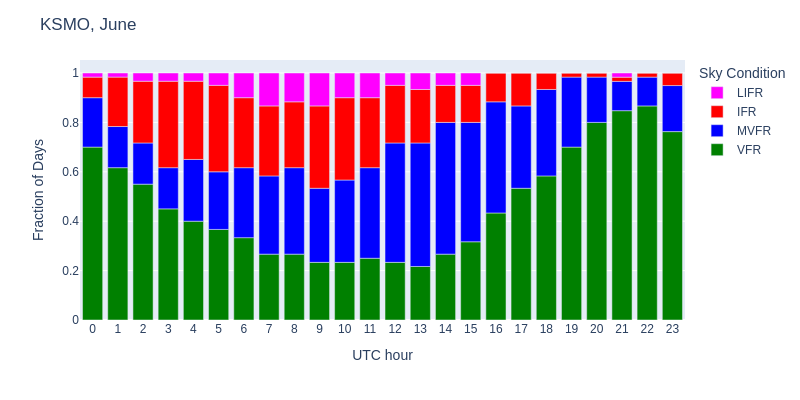
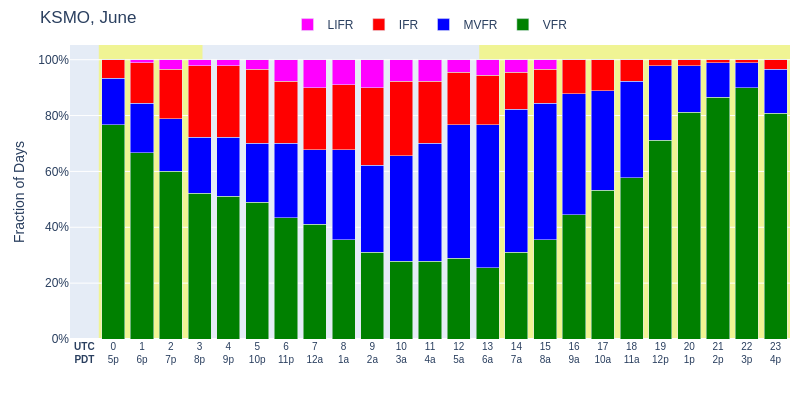
Update About page example charts and text for recent UI improvements
Regenerated example charts with timezone labels and daylight shading.
Updated surrounding text to match current data and reference new chart
features. Fixed CLI metadata lookup to handle ICAO K-prefix codes.

diff --git a/cli/metar_analyzer.py b/cli/metar_analyzer.py
@@ -67,13 +67,23 @@ def main():
         print(METARVisualizer.format_table(hourly))
 
     if args.chart:
-        # Look up timezone and location metadata for the airport
+        # Look up timezone and location metadata for the airport.
+        # The metadata parquet is keyed by IEM query code (e.g., "SMO"),
+        # but the user may provide the ICAO code (e.g., "KSMO"). Try both.
         metadata = pd.read_parquet(METADATA_PATH)
         airport_upper = args.airport.upper()
+        meta_key = None
+        if airport_upper in metadata.index:
+            meta_key = airport_upper
+        elif len(airport_upper) == 4 and airport_upper.startswith('K'):
+            stripped = airport_upper[1:]
+            if stripped in metadata.index:
+                meta_key = stripped
+
         utc_offsets = []
         daylight_utc = None
-        if airport_upper in metadata.index:
-            row = metadata.loc[airport_upper]
+        if meta_key is not None:
+            row = metadata.loc[meta_key]
             utc_offsets = get_utc_offsets_for_month(row.get('tz'), args.month)
             daylight_utc = get_daylight_utc_hours(
                 row.get('lat'), row.get('lon'), args.month)

diff --git a/website/frontend/root-pages/about.md b/website/frontend/root-pages/about.md
@@ -19,21 +19,21 @@ For example, the chart below shows the prediction for Santa Monica Airport (KSMO
 
 ![KSMO June weather prediction](/assets/images/KSMO-06.png)
 
-**How to read the chart:** Each bar represents one hour of the day (UTC). The height of each colored section shows the percentage of days in that month that had that flight condition during that hour. <span class="vfr">VFR</span> is stacked on the bottom, making it easy to read—just look at where the green ends. For example, at hour 0 UTC (5 PM local), the <span class="vfr">VFR</span> section extends from 0 to 0.70, meaning 70% of days in past Junes had VFR conditions at 5 PM. Above that, <span class="mvfr">MVFR</span> goes from 0.70 to 0.90 (20%), <span class="ifr">IFR</span> from 0.90 to 0.98 (8%), and <span class="lifr">LIFR</span> from 0.98 to 1.0 (2%). By hour 8 UTC (1 AM local), the <span class="vfr">VFR</span> bar is much shorter—from 0 to 0.27—indicating only a 27% chance of VFR, with a 73% chance of marine layer: 35% <span class="mvfr">MVFR</span>, 27% <span class="ifr">IFR</span>, and 12% <span class="lifr">LIFR</span>.
+**How to read the chart:** Each bar represents one hour of the day (UTC). The local time is shown below each bar, and the yellow background indicates daylight hours. The height of each colored section shows the percentage of days in that month that had that flight condition during that hour. <span class="vfr">VFR</span> is stacked on the bottom, making it easy to read—just look at where the green ends. For example, at hour 0 UTC (5 PM PDT), the <span class="vfr">VFR</span> section reaches 77%, meaning 77% of days in past Junes had VFR conditions at 5 PM. Above that, <span class="mvfr">MVFR</span> adds 17% and <span class="ifr">IFR</span> 7%. By hour 10 UTC (3 AM local), the <span class="vfr">VFR</span> bar drops to just 28%, with a 72% chance of marine layer: 38% <span class="mvfr">MVFR</span>, 27% <span class="ifr">IFR</span>, and 8% <span class="lifr">LIFR</span>.
 
-**KSMO in June** shows classic June Gloom. The best predicted conditions are from 20-23 UTC (1-4 PM local) with 76-87% <span class="vfr">VFR</span>. The worst marine layer hits from 7-15 UTC (midnight-8 AM local). At the worst hours (13-14 UTC / 6-7 AM local), <span class="vfr">VFR</span> is only 22-27%, with a 73-78% chance of marine layer: 50-53% <span class="mvfr">MVFR</span>, 15-22% <span class="ifr">IFR</span>, and 5-7% <span class="lifr">LIFR</span>. The marine layer begins burning off at 16-18 UTC (9-11 AM local) with <span class="vfr">VFR</span> improving from 43% to 58%.
+**KSMO in June** shows classic June Gloom. The best predicted conditions are from 20-22 UTC (1-3 PM local) with 81-90% <span class="vfr">VFR</span>. The worst marine layer hits from 8-15 UTC (1-8 AM local). At the worst hours (13-14 UTC / 6-7 AM local), <span class="vfr">VFR</span> is only 26-31%, with a 69-74% chance of marine layer: about 51% <span class="mvfr">MVFR</span>, 13-18% <span class="ifr">IFR</span>, and 4-6% <span class="lifr">LIFR</span>. The marine layer begins burning off at 16-18 UTC (9-11 AM local) with <span class="vfr">VFR</span> improving from 44% to 58%. As the yellow daylight band on the chart suggests, this improvement correlates with sunrise—solar heating burns off the coastal fog a few hours after dawn.
 
 Van Nuys Airport (KVNY) was often our planned alternate. Even though it's just 14 miles away,  its weather is consistently better than Santa Monica due to being further inland and protected from the marine layer by the Santa Monica Mountains. The predictor confirms this:
 
 ![KVNY June weather prediction](/assets/images/KVNY-06.png)
 
-**KVNY in June** shows substantially better conditions. The best chance at <span class="vfr">VFR</span> is from 19 UTC through 6 UTC (noon through 11 PM local) at 79-93%. The marine layer affects KVNY from 7-16 UTC (midnight-9 AM local), but is noticeably lighter than KSMO. At the worst hours (13-14 UTC / 6-7 AM local), <span class="vfr">VFR</span> is still about 40% likely—significantly better than KSMO's ~25% chance at <span class="vfr">VFR</span> at the same hours. This validates the local wisdom that when KSMO is socked in, KVNY is usually a safe bet.
+**KVNY in June** shows substantially better conditions. The best chance at <span class="vfr">VFR</span> is from 19 UTC through 6 UTC (noon through 11 PM local) at 81-94%. The marine layer affects KVNY from 7-16 UTC (midnight-9 AM local), but is noticeably lighter than KSMO. At the worst hours (13-14 UTC / 6-7 AM local), <span class="vfr">VFR</span> is still about 37-38% likely—better than KSMO's ~26-31% chance at <span class="vfr">VFR</span> at the same hours. This validates the local wisdom that when KSMO is socked in, KVNY is usually a safe bet.
 
 Of course, the best way to escape June Gloom at Santa Monica is not to divert to Van Nuys, but to wait until August:
 
 ![KSMO August weather prediction](/assets/images/KSMO-08.png)
 
-**KSMO in August** has much better weather than it does in June. The best <span class="vfr">VFR</span> is from 18-23 UTC (11 AM-4 PM local) at 94-98%. The marine layer is much lighter and later than June, affecting mainly 10-15 UTC (3-8 AM local). At the worst hours (12-13 UTC / 5-6 AM local), <span class="vfr">VFR</span> is still 52-55% with only a 45-48% marine layer (19-23% <span class="mvfr">MVFR</span>, 19-21% <span class="ifr">IFR</span>, and 5-6% <span class="lifr">LIFR</span>)—a significant improvement over June's 22% <span class="vfr">VFR</span> at the same hours.
+**KSMO in August** has much better weather than it does in June. The best <span class="vfr">VFR</span> is from 19-23 UTC (noon-4 PM local) at 94-97%. The marine layer is much lighter and later than June, affecting mainly 10-15 UTC (3-8 AM local). At the worst hours (12-13 UTC / 5-6 AM local), <span class="vfr">VFR</span> is still 49-54% with only a 46-51% marine layer (15-22% <span class="mvfr">MVFR</span>, 19-23% <span class="ifr">IFR</span>, and 9-10% <span class="lifr">LIFR</span>)—a significant improvement over June's 26% <span class="vfr">VFR</span> at the same hours.
 
 ## How It Works
 
